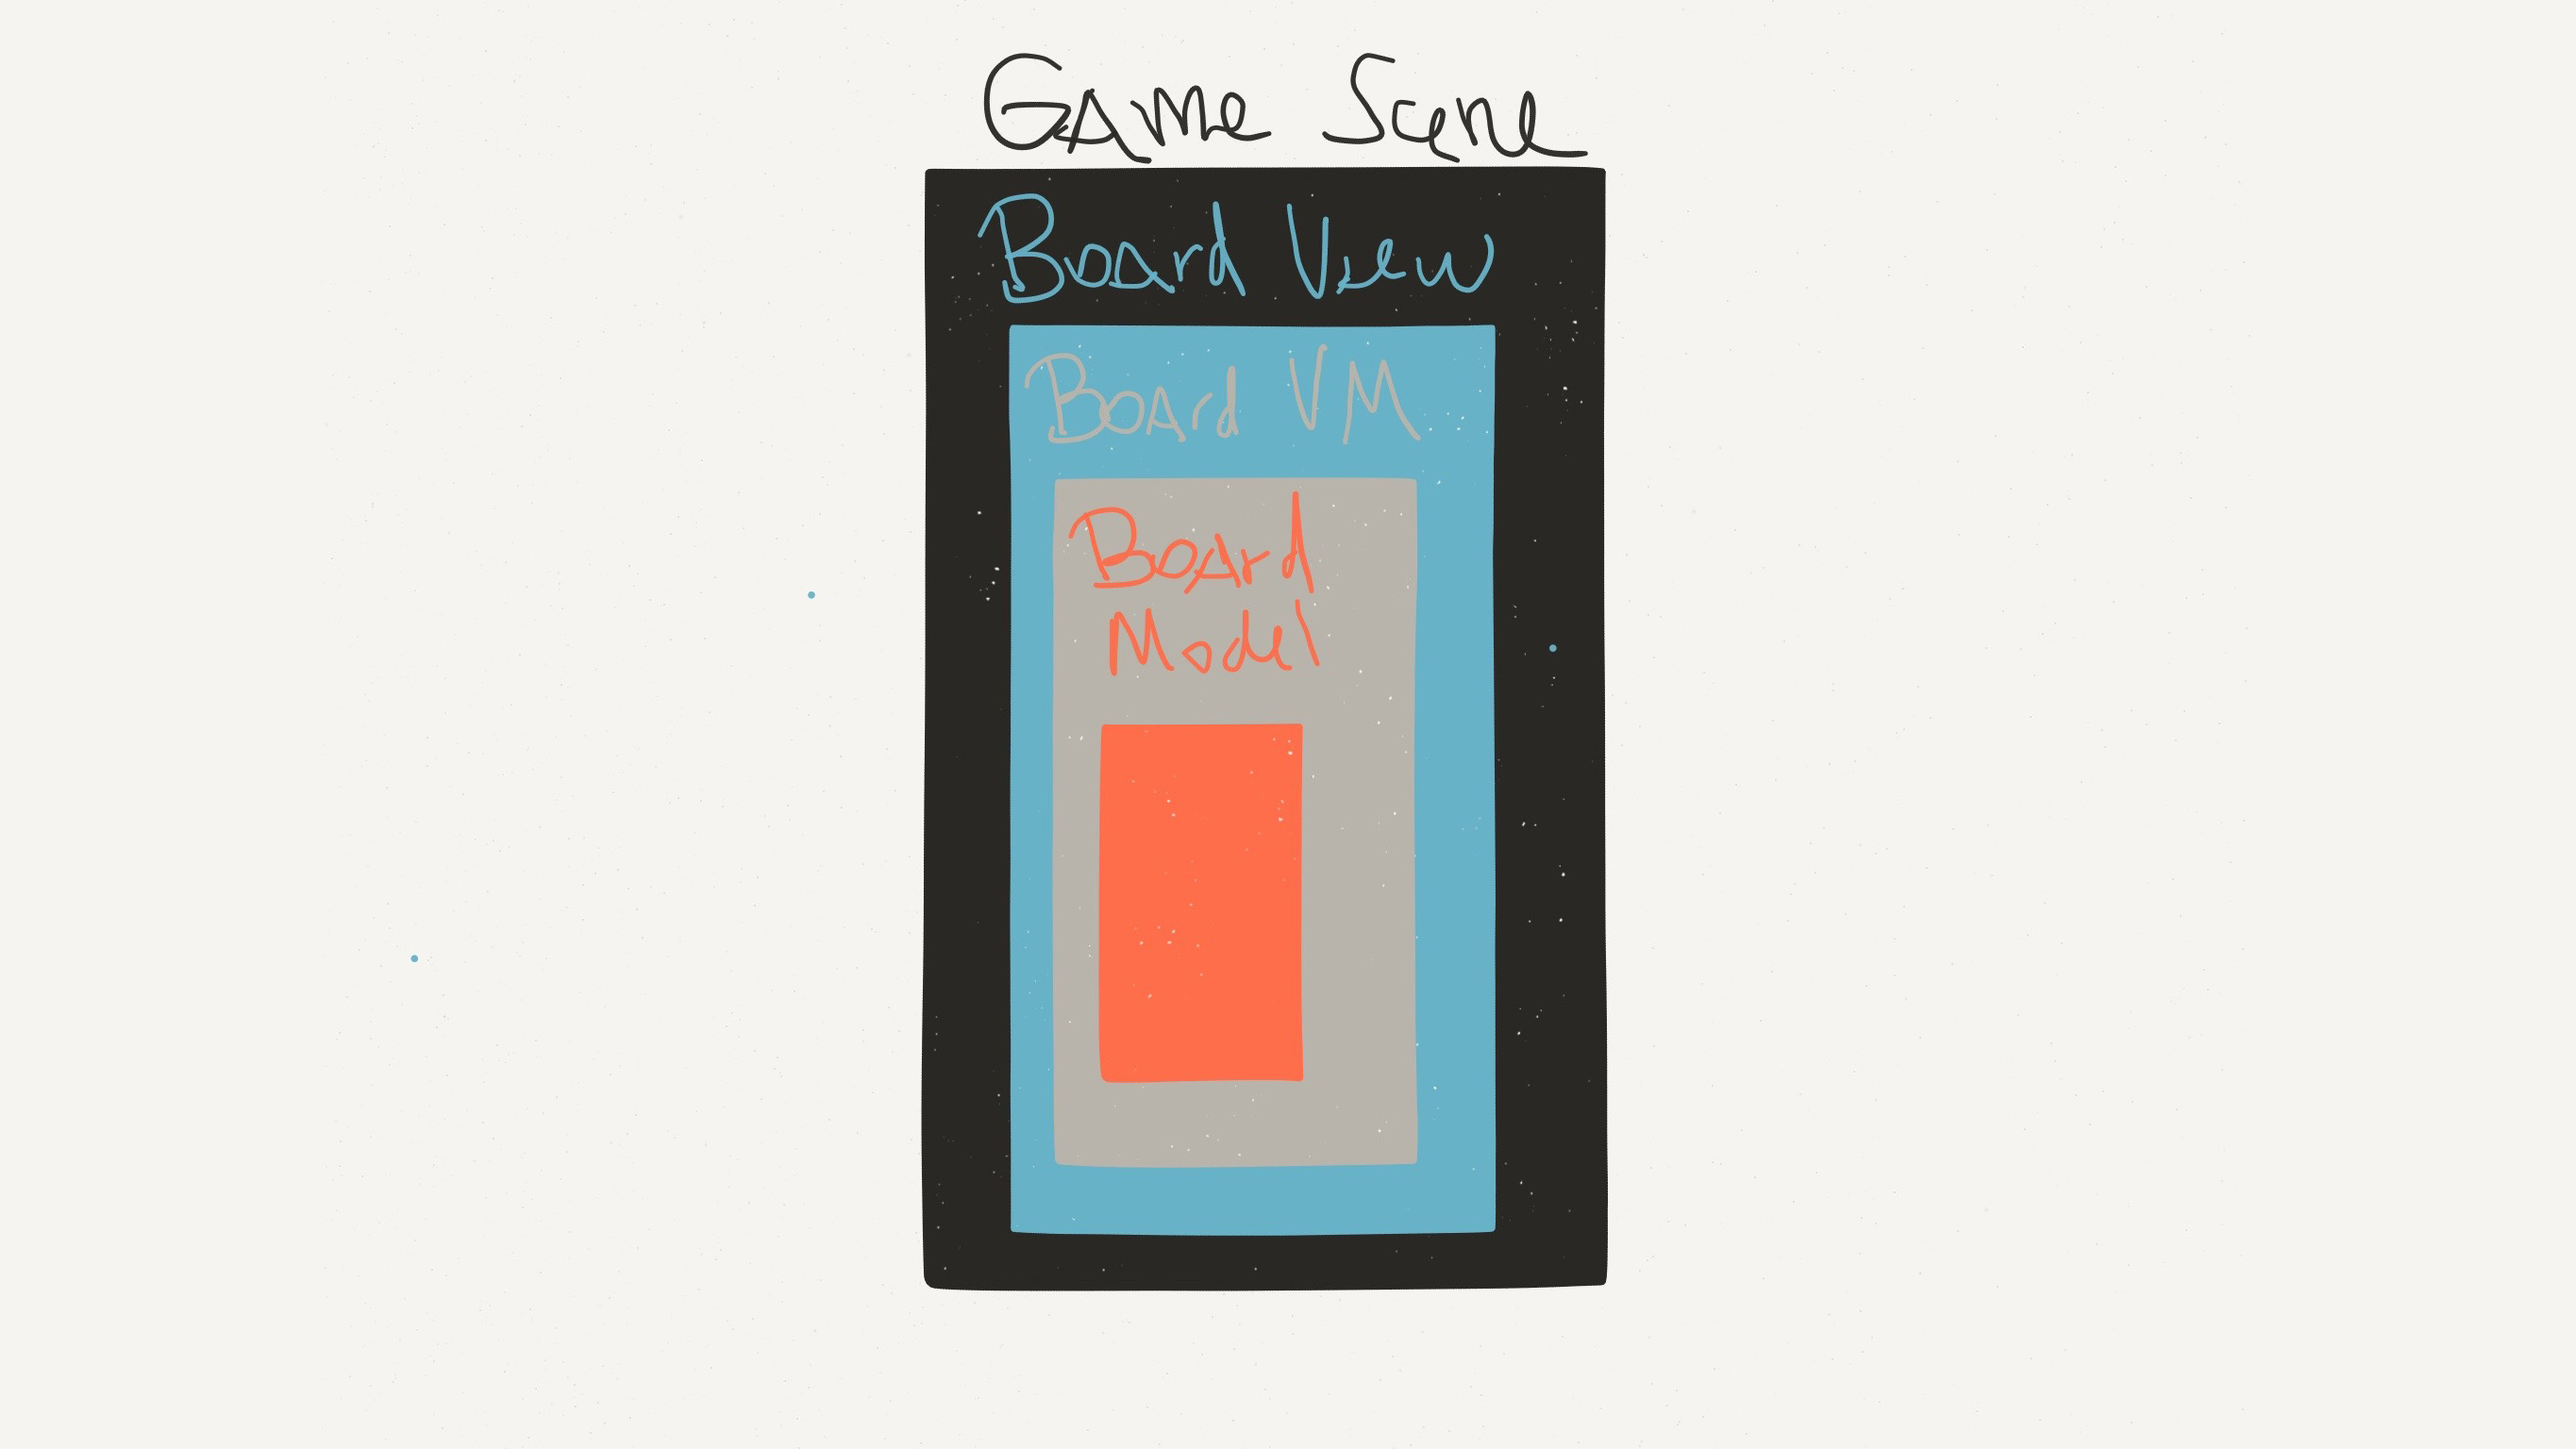
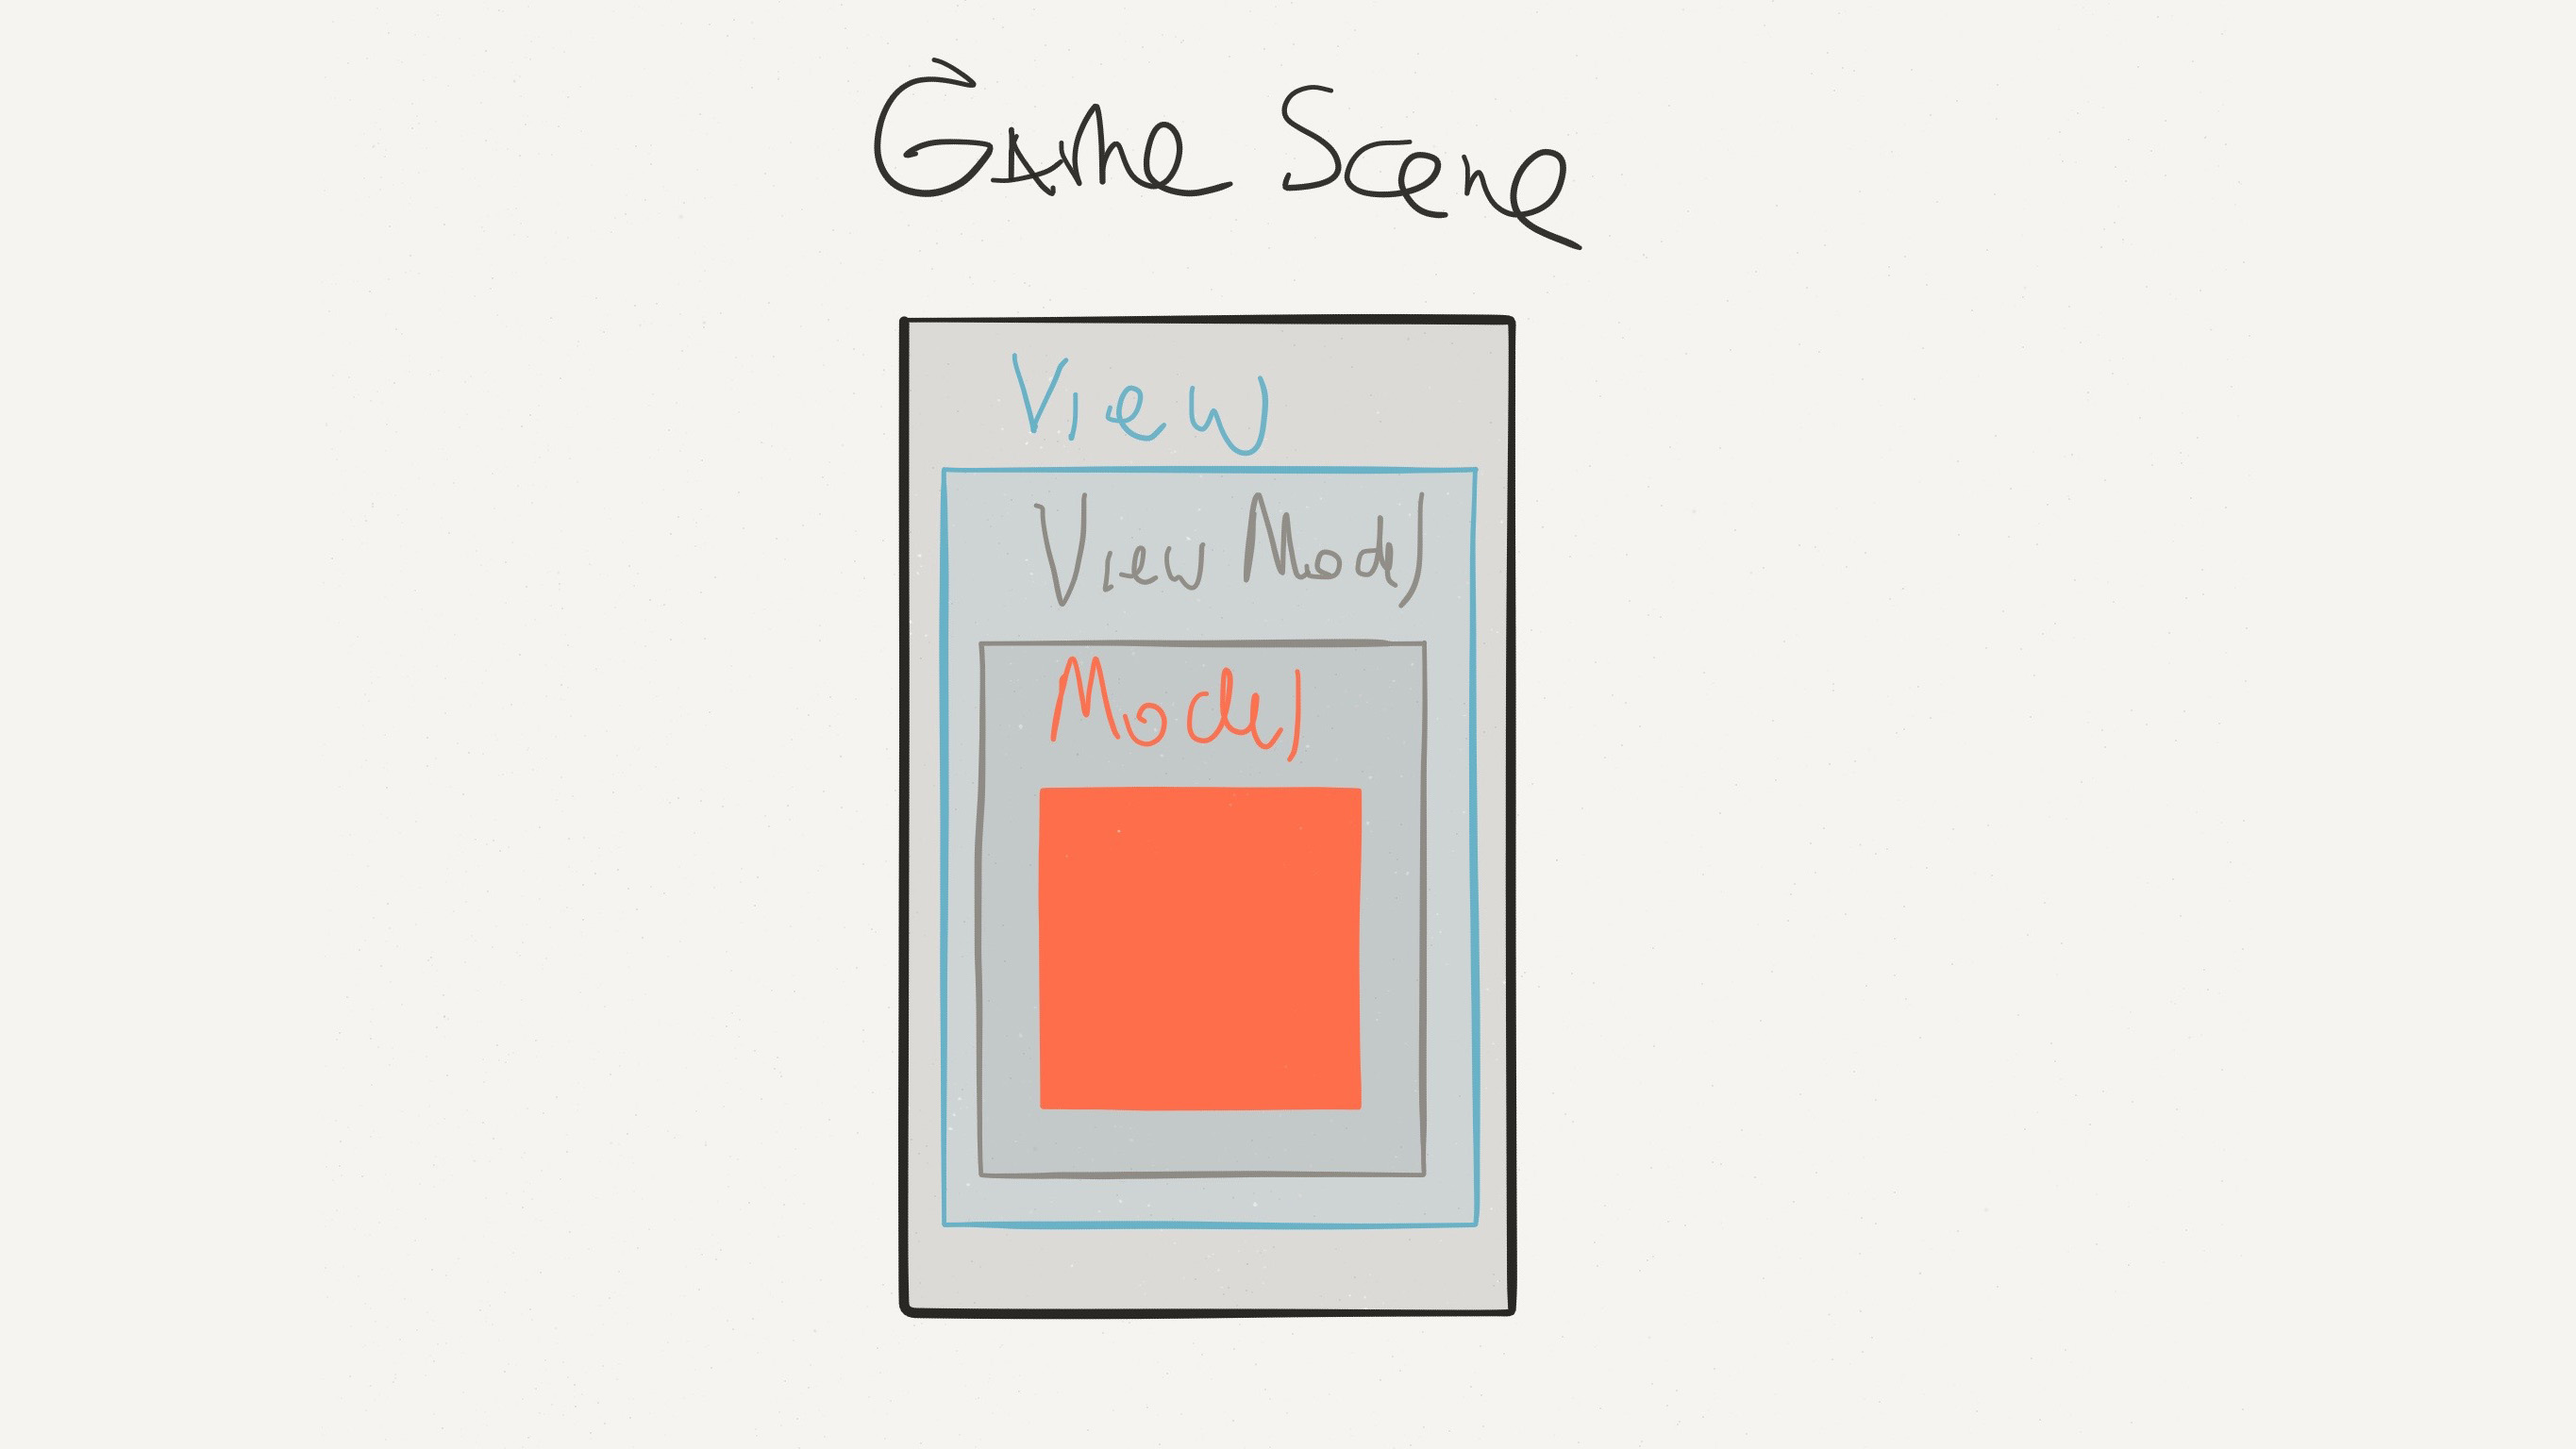
Improve images and some text

Changed region(s): [[0.3425, 0.0312, 0.6227, 0.9375]]

diff --git a/Swifts Values.md b/Swifts Values.md
@@ -30,7 +30,7 @@ NSString / NSMutableString
 ---
 - Differences between Value / Reference Types
 - Immutability in Swift
-- Taking advantage of Value Types
+- Using Value Types
 
 ^ Partiré señalando las diferencias entre trabajar con Value Types y Reference Types.
 ^ Luego hablaré de los beneficios de desarrollar pensando en la inmutabilidad
@@ -141,7 +141,7 @@ a.x = 20 // Compilation error
 ^ Es por esto que es necesario utilizar var en vez de let, porque no cambiará solo el valor interno que se está modificando, sino toda la struct.
 
 ---
-# Taking advantage of Value Types
+# Using Value Types
 
 ^ Entonces, ¿cómo podemos aprovechar la utilización de valores en nuestra app?
 
@@ -212,6 +212,22 @@ a == b // false
 ```
 ^ Los valores son inherentemente comparables.
 ^ Si tenemos un string, esperamos que se comporte de esta manera, independiente donde esté alojado en memoria.
+
+---
+## How?
+```swift
+struct Point: Equatable {
+    let x: Int, y: Int
+}
+
+func ==(lhs: Point, rhs: Point) -> Bool {
+    return lhs.x == rhs.x && lhs.y == rhs.y
+}
+```
+
+^ Simplemente necesitamos adherir al protocolo Equatable en Swift.
+^ Equatable nos pide que implementemos una sola función la que tiene dos valores como entrada, y un booleano como salida.
+^ Un punto es igual a otro solo si su valor x y su valor y es igual al del otro punto.
 
 ---
 # [fit] When to use Classes?
@@ -336,7 +352,7 @@ func configure(boardViewModel: BoardViewModel)
 ^ Lo que creará un nuevo BoardViewModel, que será pasado al BoardView para ser configurado.
 
 ---
-![](img/result.jpg)
+![](img/MVVM-updates.jpg)
 
 ---
 ## Only update what *changed*
@@ -352,7 +368,7 @@ func configure(boardViewModel: BoardViewModel)
 ---
 
 # They're Values
-...and you can *compare* values easily :boom:
+...and you can *compare* values easily
 
 ```swift
 func configure(cellViewModel: CellViewModel) {
@@ -363,9 +379,12 @@ func configure(cellViewModel: CellViewModel) {
 ```
 
 ---
+![](img/result.jpg)
+
+---
 - Differences between Value / Reference Types
 - Immutability in Swift
-- How to take advantage of Value Types
+- Using Value Types
 
 ---
 # Resources:
@@ -379,6 +398,6 @@ func configure(cellViewModel: CellViewModel) {
 [Immutable Data and React by Lee Byron](https://www.youtube.com/watch?v=I7IdS-PbEgI)
 
 ---
-# [fit] Thanks
+# [fit] That's a wrap!
 Slides available at:
 [https://github.com/fdiaz/swift-values-talk](https://github.com/fdiaz/sisifo-talk)
